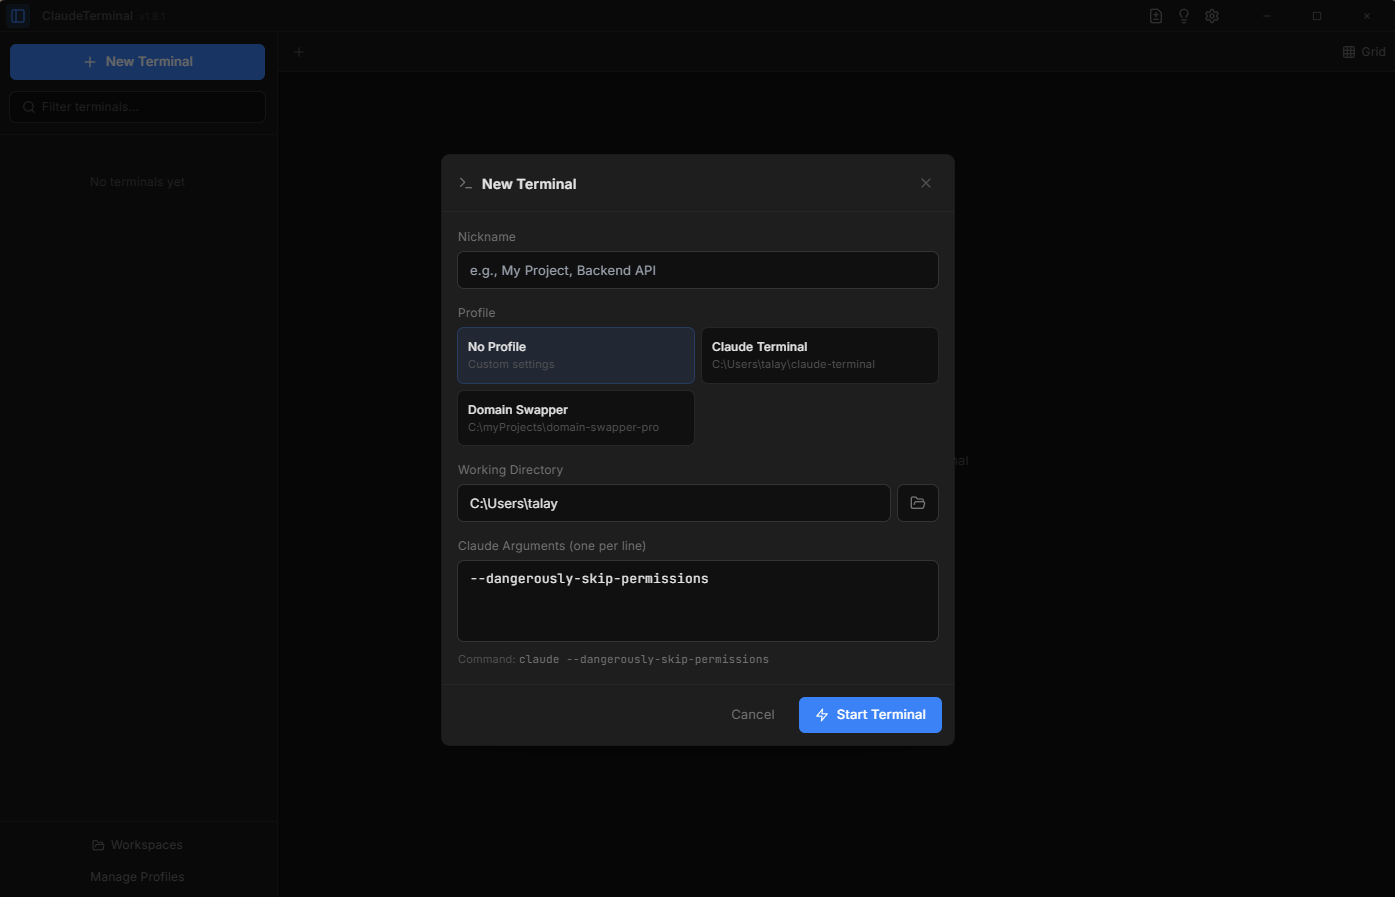
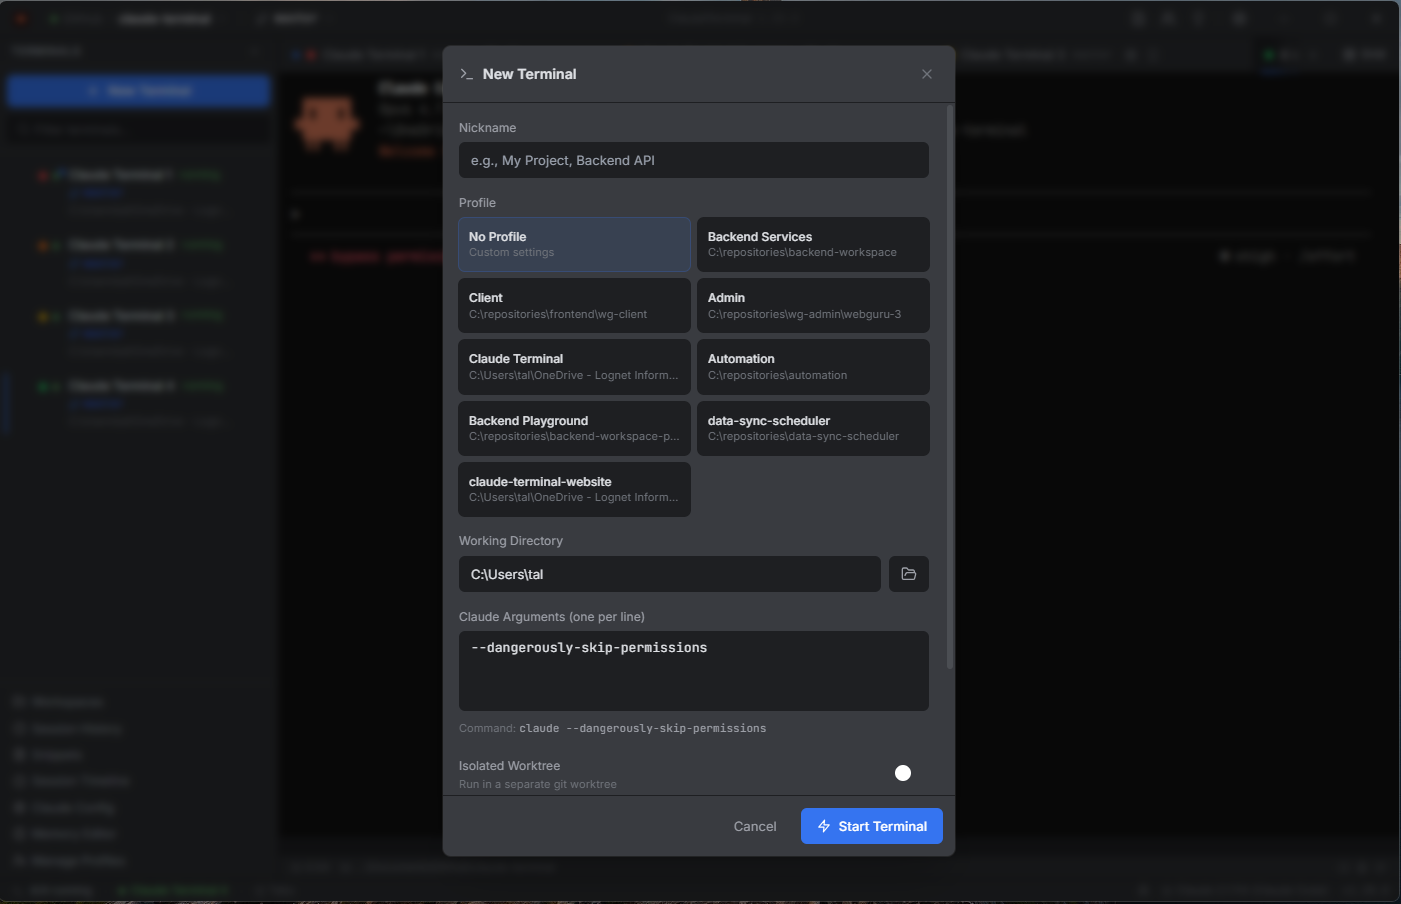
Refresh README screenshots to v1.20.x UI
Replace welcome/main/new-terminal/grid/settings screenshots with
up-to-date captures and expand the README Screenshots section to
show each view individually with captions.

diff --git a/README.md b/README.md
@@ -34,8 +34,28 @@
 ## Screenshots
 
 <p align="center">
-  <img src="docs/demo.gif" alt="ClaudeTerminal Demo" width="800">
-  <br><em>Welcome screen, new terminal dialog, main view, grid view, settings, and profiles</em>
+  <img src="docs/welcome.png" alt="Welcome screen" width="800">
+  <br><em>Welcome screen — empty state with quick-launch shortcuts and sidebar navigation</em>
+</p>
+
+<p align="center">
+  <img src="docs/main-view.png" alt="Main view with active Claude Code session" width="800">
+  <br><em>Main view — an active Claude Code session with branch indicator and status bar</em>
+</p>
+
+<p align="center">
+  <img src="docs/new-terminal.png" alt="New Terminal dialog" width="800">
+  <br><em>New Terminal dialog — pick a profile, set a nickname, working directory, and Claude arguments</em>
+</p>
+
+<p align="center">
+  <img src="docs/grid-view.png" alt="Grid view with four terminals" width="800">
+  <br><em>Grid view — up to 8 Claude Code sessions at once with selectable layouts</em>
+</p>
+
+<p align="center">
+  <img src="docs/settings.png" alt="Settings modal" width="800">
+  <br><em>Settings — app and Claude Code update status, default arguments, and notifications</em>
 </p>
 
 ## Features
